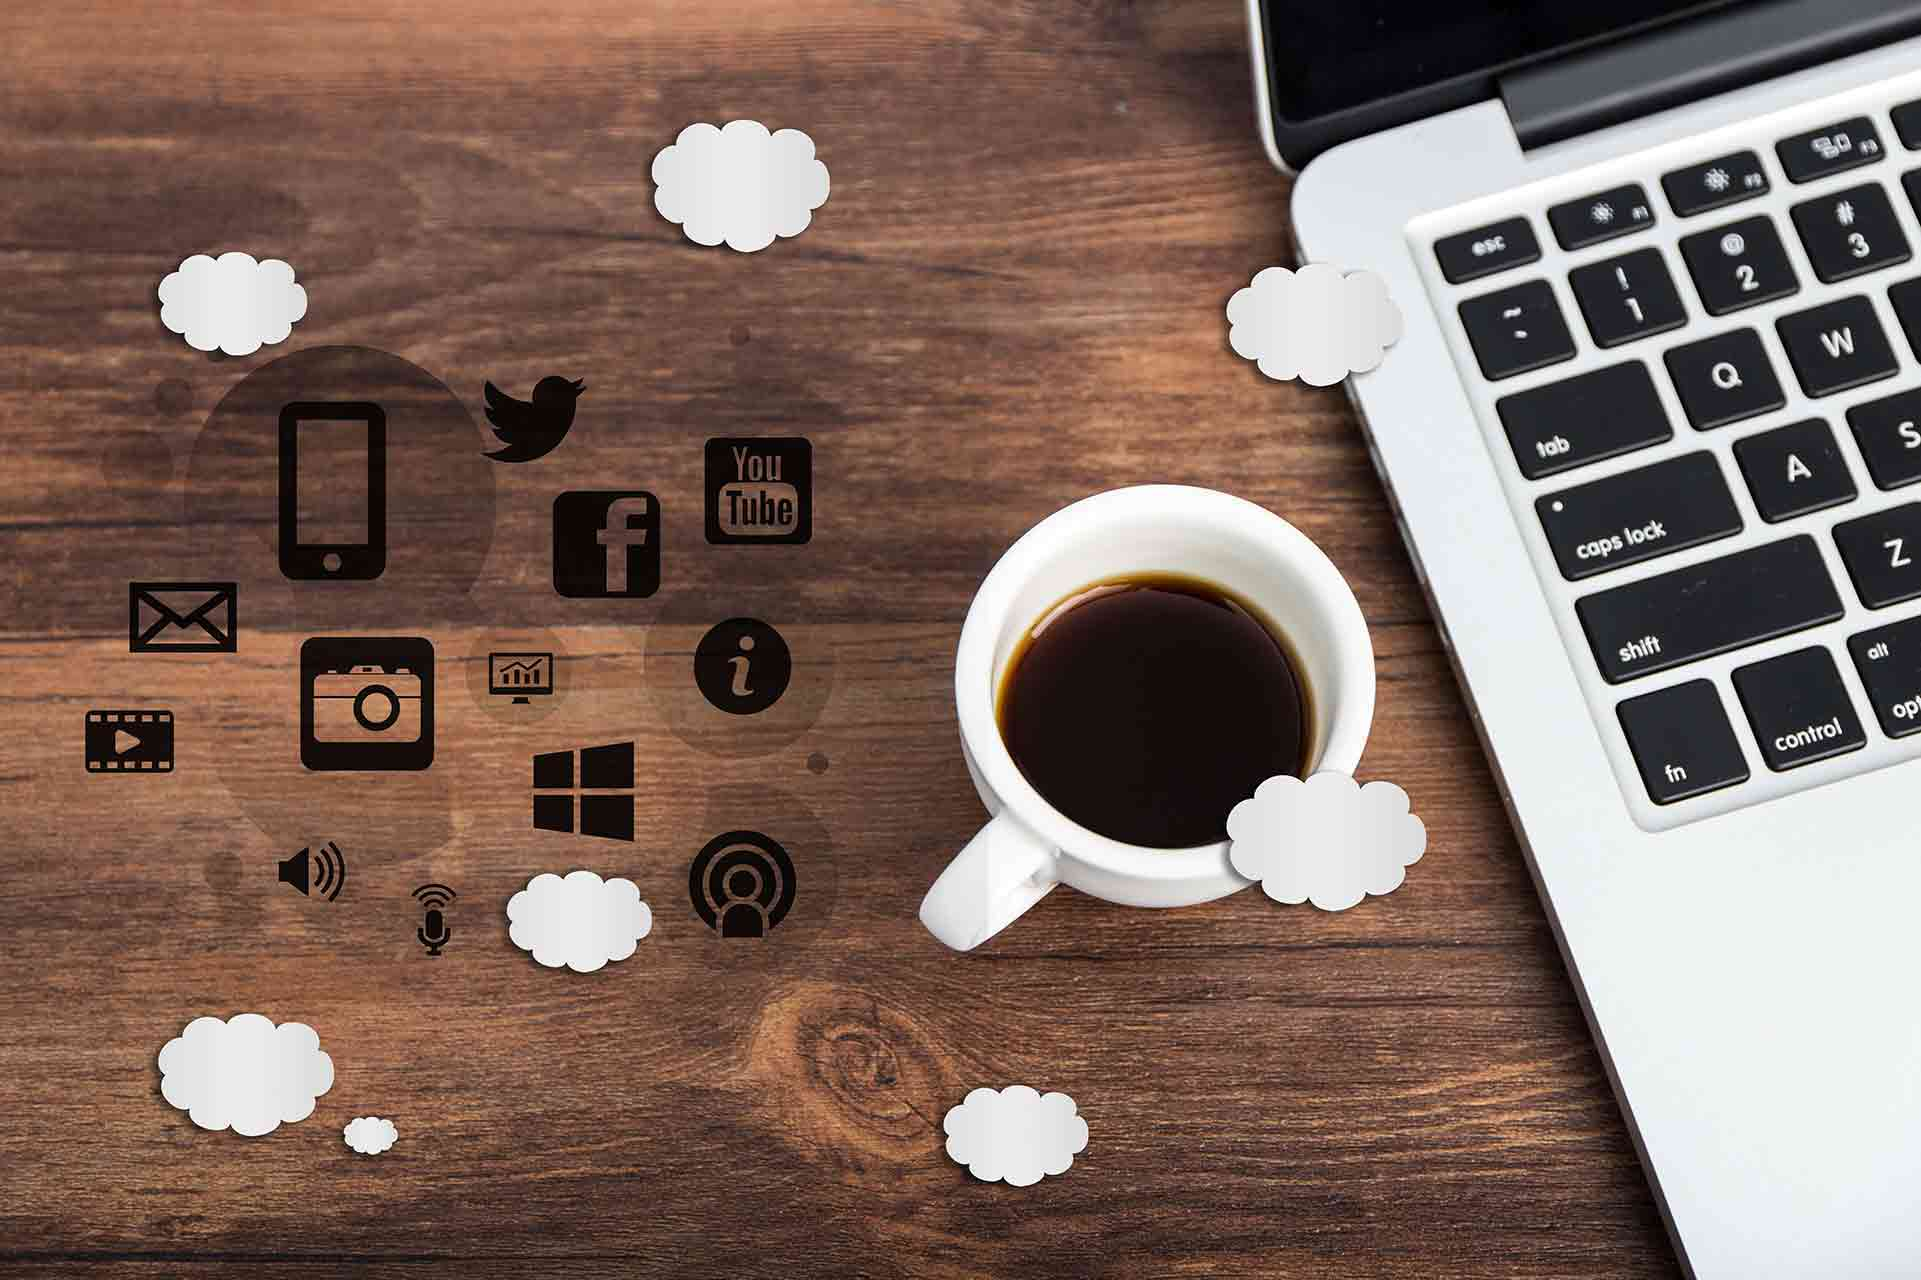
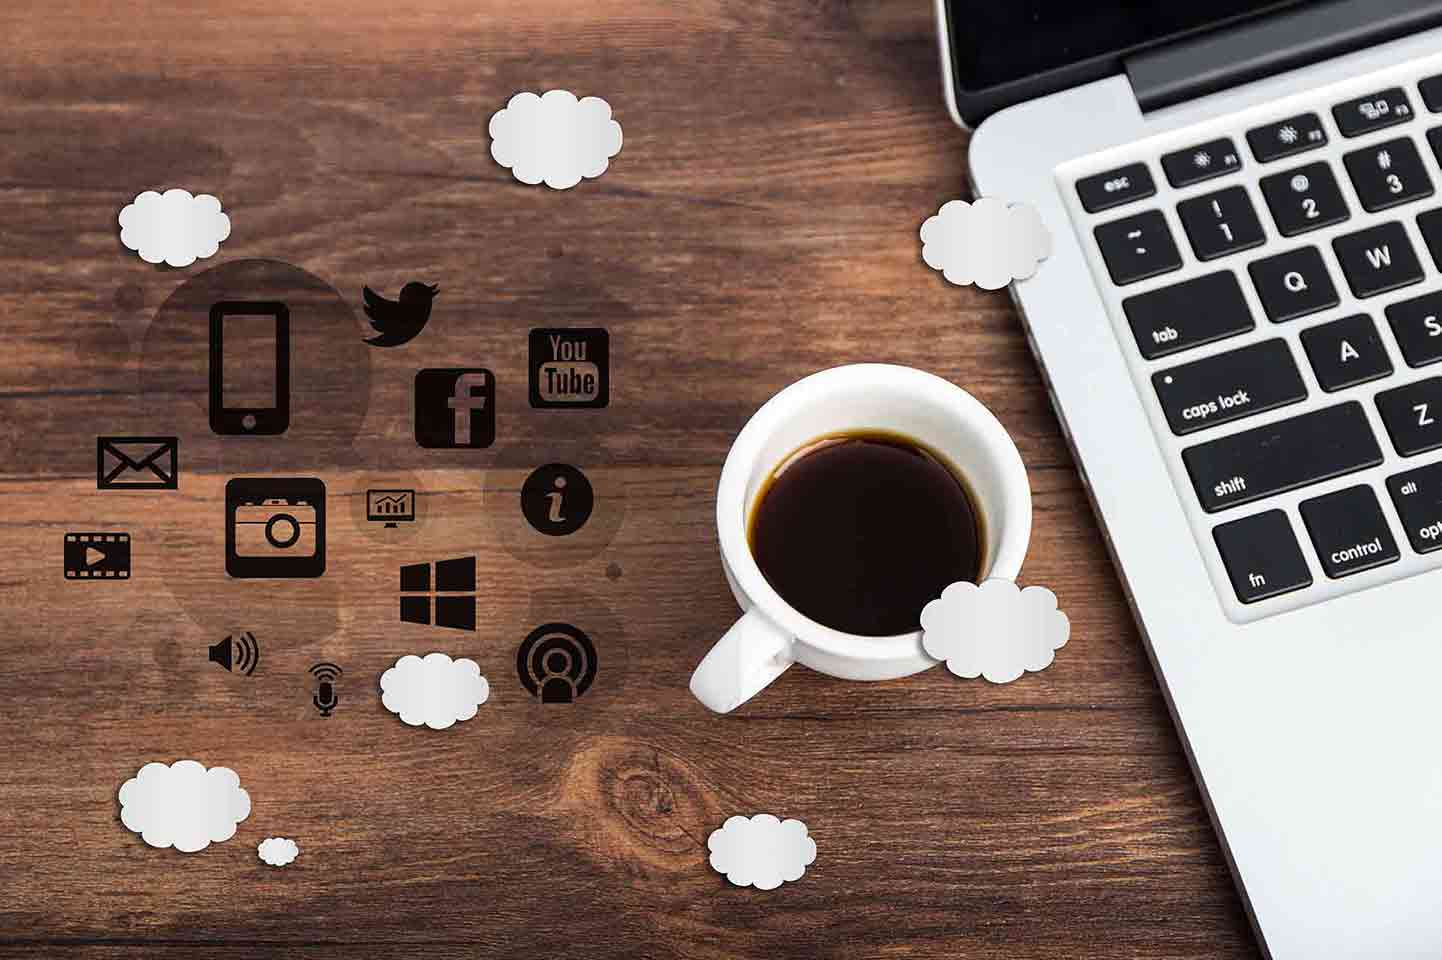
压缩图片 修改友链接bug

diff --git a/blog-react/src/pages/blogroll/index.tsx b/blog-react/src/pages/blogroll/index.tsx
@@ -1,7 +1,7 @@
 import React, { useState, useEffect } from 'react'
 import { Skeleton, Card, Avatar, Col, Row, Divider, Button, Popconfirm, message, Modal, Form, Input, Spin } from 'antd';
 import PageWrapper from "../../components/PageWrapper"
-import { PlusCircleOutlined, BankOutlined, HeatMapOutlined, BranchesOutlined, FileTextOutlined } from '@ant-design/icons';
+import { PlusCircleOutlined, BankOutlined, HeatMapOutlined, BranchesOutlined, FileTextOutlined, ExclamationCircleOutlined } from '@ant-design/icons';
 
 import './index.scss'
 import { getStorageFn } from "../../util/storageFn"
@@ -71,8 +71,11 @@ const index = () => {
 
       // 打开添加友链弹窗
       const handleClick = () => {
-        if (role === 'admin') {
+          // 没有登录 无法点赞
+        if (blog_Info) {
             setVisible(true)
+        } else {
+            message.error('请您先登录下，方便联系到您')
         }
       }
 
@@ -147,6 +150,11 @@ const index = () => {
                     </Form.Item>
 
                     </Form>
+                    <p style={{fontSize: '12px', color: '#333'}}> 
+                    <ExclamationCircleOutlined  style={{color: 'red'}} />  温馨提示: <br/>
+                            在申请本站友链之前请确保已将本站加入友链。<br/>
+                            本站优先录入同类原创、技术生活类博客。任何包含违法国家法律或不健康内容站点均不录入。
+                    </p>
                 </Modal>
             <PageWrapper>
                 <Divider style={{color: '#fff', borderColor: '#fff', fontSize: '18px'}}>友情链接</Divider>

diff --git a/blog-react/src/pages/timeline/index.tsx b/blog-react/src/pages/timeline/index.tsx
@@ -109,7 +109,7 @@ const index = () => {
                                         <div className="title">{item.title}</div> 
                                         <span style={{color: '#ccc', float: 'right'}}>{timestampToTime(new Date(item.date).getTime())}</span>
                                         <Divider />
-                                        <p style={{textIndent: '2em', fontFamily: 'inherit', fontSize: '16px'}}>{item.content}</p>
+                                        <p style={{textIndent: '2em', fontFamily: 'inherit', fontSize: '16px', textAlign: 'left'}}>{item.content}</p>
                                     </div>
                                 </Timeline.Item>
                             )

diff --git a/blog-react/.umirc.ts b/blog-react/.umirc.ts
@@ -22,7 +22,7 @@ export default defineConfig({
         {
           path: '/home',
           component: '@/pages/home/index',
-          title: '首页'
+          title: 'K.P - 技术配毒鸡汤'
         },
         {
           path: '/blog',
@@ -90,7 +90,7 @@ export default defineConfig({
     mode: 'emit',
   },
   links: [
-    {rel: 'icon', href: './static/Ckp.png'}
+    {rel: 'icon', href: './static/Ckp.jpg'}
   ],
   dynamicImport: {
     loading: '@/Loading',

diff --git a/blog-react/src/layout/Navbar/index.tsx b/blog-react/src/layout/Navbar/index.tsx
@@ -5,7 +5,7 @@ import { HomeOutlined, UnorderedListOutlined, PlayCircleOutlined, CalendarOutlin
 import { Link, useHistory, history } from 'umi'
 import './index.scss'
 import { getStorageFn, removeStorageFn } from "../../util/storageFn";
-import logo from "../../../public/static/Ckp.png";
+import logo from "../../../public/static/Ckp.jpg";
 
 const index = (props: { children: React.ReactNode }) => {
     const { location } = useHistory()

diff --git a/blog-api/routes/blogroll.js b/blog-api/routes/blogroll.js
@@ -12,7 +12,7 @@ const { authorize } = require('../middleware/auth')
 router
     .get('/test', Test)
     .get('/all', GetBlogroll)
-    .post('/add',  passport.authenticate('jwt', { session: false }), AddBlogroll)
+    .post('/add', AddBlogroll)
     .put('/update',  passport.authenticate('jwt', { session: false }), authorize('admin'), UpdateType)
 
 module.exports = router.routes()

diff --git a/blog-react/src/pages/blogroll/index.scss b/blog-react/src/pages/blogroll/index.scss
@@ -13,3 +13,10 @@
 .ant-modal-footer {
   display: none;
 } 
+
+.ant-card-meta-description {
+  display: -webkit-box;
+  -webkit-box-orient: vertical;
+  -webkit-line-clamp: 1;
+  overflow: hidden;
+}
